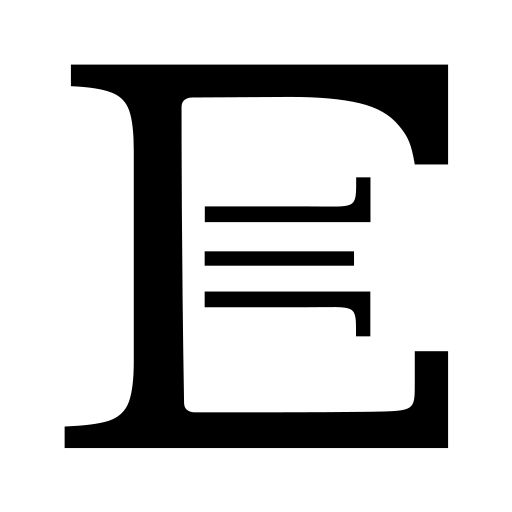
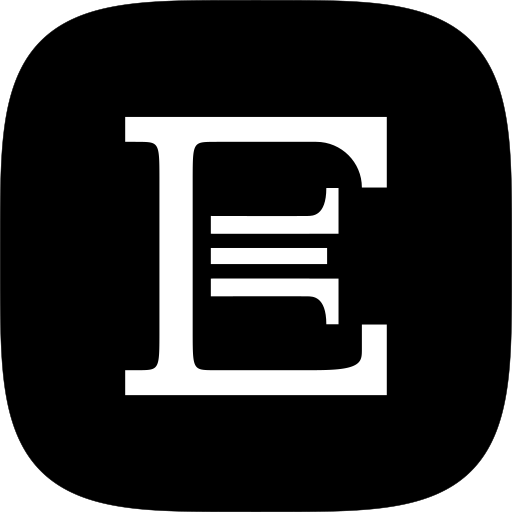
iconv5

diff --git a/web/index.html b/web/index.html
@@ -8,14 +8,25 @@
   <meta name="theme-color" media="(prefers-color-scheme: dark)" content="#1b1e21">
   <meta name="theme-color" media="(prefers-color-scheme: light)" content="#f4f0e6">
 
-  <!-- icon3.svg is the single source for every icon format. The .ico and .png
-       files next to it are raster exports of that same SVG. -->
-  <link rel="icon" type="image/svg+xml" href="/icon3.svg">
-  <link rel="icon" type="image/png" sizes="32x32" href="/icon-32.png">
-  <link rel="icon" type="image/png" sizes="192x192" href="/icon-192.png">
-  <link rel="icon" href="/favicon.ico" sizes="any">
-  <link rel="apple-touch-icon" sizes="180x180" href="/icon-180.png">
-  <link rel="mask-icon" href="/icon3.svg" color="#f4f0e6">
+  <!-- icon-light.svg and icon-dark.svg are the two sources. The .png files
+       next to them are raster exports of the same art, kept only for Safari and
+       for the home screen on a phone, which ignore SVG icons.
+       The media queries pick the variant that matches the system appearance, so
+       the icon is right before any script runs. data-light-href and
+       data-dark-href let State.setTheme pin the icon to the chosen theme for
+       people who override the system setting; it then drops the media query. -->
+  <link rel="icon" type="image/svg+xml" href="/icon-light.svg" media="(prefers-color-scheme: light)" data-light-href="/icon-light.svg" data-dark-href="/icon-dark.svg">
+  <link rel="icon" type="image/svg+xml" href="/icon-dark.svg" media="(prefers-color-scheme: dark)" data-light-href="/icon-light.svg" data-dark-href="/icon-dark.svg">
+  <link rel="icon" type="image/png" sizes="32x32" href="/icon-32.png" media="(prefers-color-scheme: light)" data-light-href="/icon-32.png" data-dark-href="/icon-32-dark.png">
+  <link rel="icon" type="image/png" sizes="32x32" href="/icon-32-dark.png" media="(prefers-color-scheme: dark)" data-light-href="/icon-32.png" data-dark-href="/icon-32-dark.png">
+  <link rel="icon" type="image/png" sizes="192x192" href="/icon-192.png" media="(prefers-color-scheme: light)" data-light-href="/icon-192.png" data-dark-href="/icon-192-dark.png">
+  <link rel="icon" type="image/png" sizes="192x192" href="/icon-192-dark.png" media="(prefers-color-scheme: dark)" data-light-href="/icon-192.png" data-dark-href="/icon-192-dark.png">
+  <link rel="apple-touch-icon" sizes="180x180" href="/icon-180.png" media="(prefers-color-scheme: light)" data-light-href="/icon-180.png" data-dark-href="/icon-180-dark.png">
+  <link rel="apple-touch-icon" sizes="180x180" href="/icon-180-dark.png" media="(prefers-color-scheme: dark)" data-light-href="/icon-180.png" data-dark-href="/icon-180-dark.png">
+  <!-- A mask icon is monochrome by definition, so it uses the bare letterform
+       with no disc. The browser tints it with the color attribute and follows
+       the theme itself, so this link needs no variant. -->
+  <link rel="mask-icon" href="/icon-mask.svg" color="#f4f0e6">
   <!-- Design System Stylesheets -->
   <link rel="stylesheet" href="/css/variables.css">
   <link rel="stylesheet" href="/css/components.css">

diff --git a/web/js/state.js b/web/js/state.js
@@ -38,6 +38,7 @@ const State = {
     this.theme = theme;
     if (persist) localStorage.setItem('eonz.theme', theme);
     document.documentElement.setAttribute('data-theme', theme);
+    updateFavicon(theme);
   },
 
   setViewMode(mode) {
@@ -62,3 +63,23 @@ const State = {
 };
 
 window.State = State;
+
+/**
+ * Point the icon links at the variant that matches the given theme.
+ *
+ * The markup starts out with a prefers-color-scheme media query on each icon
+ * link, which covers the system appearance but not a stored override. Setting
+ * the href from here pins the icon to the chosen theme, and dropping the media
+ * query stops the browser from picking a second, conflicting icon. A link with
+ * no variant pair, such as the mask icon, is left alone.
+ */
+function updateFavicon(theme) {
+  const attribute = theme === 'dark' ? 'data-dark-href' : 'data-light-href';
+  const links = document.querySelectorAll('link[data-light-href][data-dark-href]');
+  for (const link of links) {
+    link.setAttribute('href', link.getAttribute(attribute));
+    link.removeAttribute('media');
+  }
+}
+
+window.updateFavicon = updateFavicon;

diff --git a/public/js/state.js b/public/js/state.js
@@ -36,6 +36,7 @@ const State = {
     this.theme = theme;
     localStorage.setItem('eonz.theme', theme);
     document.documentElement.setAttribute('data-theme', theme);
+    updateFavicon(theme);
   },
 
   setViewMode(mode) {
@@ -60,3 +61,23 @@ const State = {
 };
 
 window.State = State;
+
+/**
+ * Point the icon links at the variant that matches the given theme.
+ *
+ * The markup starts out with a prefers-color-scheme media query on each icon
+ * link, which covers the system appearance but not a stored override. Setting
+ * the href from here pins the icon to the chosen theme, and dropping the media
+ * query stops the browser from picking a second, conflicting icon. A link with
+ * no variant pair, such as the mask icon, is left alone.
+ */
+function updateFavicon(theme) {
+  const attribute = theme === 'dark' ? 'data-dark-href' : 'data-light-href';
+  const links = document.querySelectorAll('link[data-light-href][data-dark-href]');
+  for (const link of links) {
+    link.setAttribute('href', link.getAttribute(attribute));
+    link.removeAttribute('media');
+  }
+}
+
+window.updateFavicon = updateFavicon;

diff --git a/server.js b/server.js
@@ -178,13 +178,12 @@ if (fs.existsSync(path.join(publicDir, 'kookit'))) {
 
 // Browsers probe /favicon.ico on their own, with no <link> tag. Without this
 // route the SPA catch-all answers it with the HTML shell and a 200, so the
-// browser caches a broken icon. Serve the icon as an image, or fail cleanly.
+// browser caches a broken icon. There is no .ico file: the probe gets the SVG
+// itself, which browsers accept at this path. A probe carries no theme
+// information, so this always answers the light variant; the theme-aware links
+// in index.html take over in every browser that reads those.
 app.get('/favicon.ico', (req, res) => {
-  const icoPath = path.join(__dirname, 'web', 'favicon.ico');
-  if (fs.existsSync(icoPath)) {
-    return res.sendFile(icoPath, { maxAge: '7d' });
-  }
-  const svgPath = path.join(__dirname, 'web', 'icon3.svg');
+  const svgPath = path.join(__dirname, 'web', 'icon-light.svg');
   if (fs.existsSync(svgPath)) {
     return res.type('image/svg+xml').set('Cache-Control', 'public, max-age=604800').sendFile(svgPath);
   }
